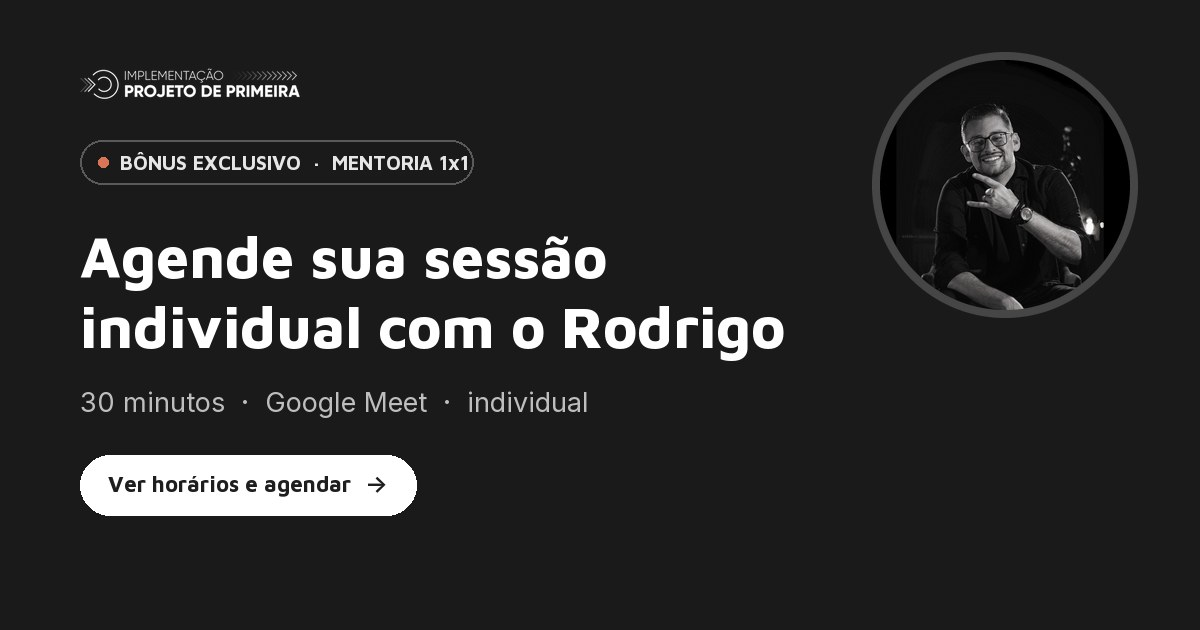
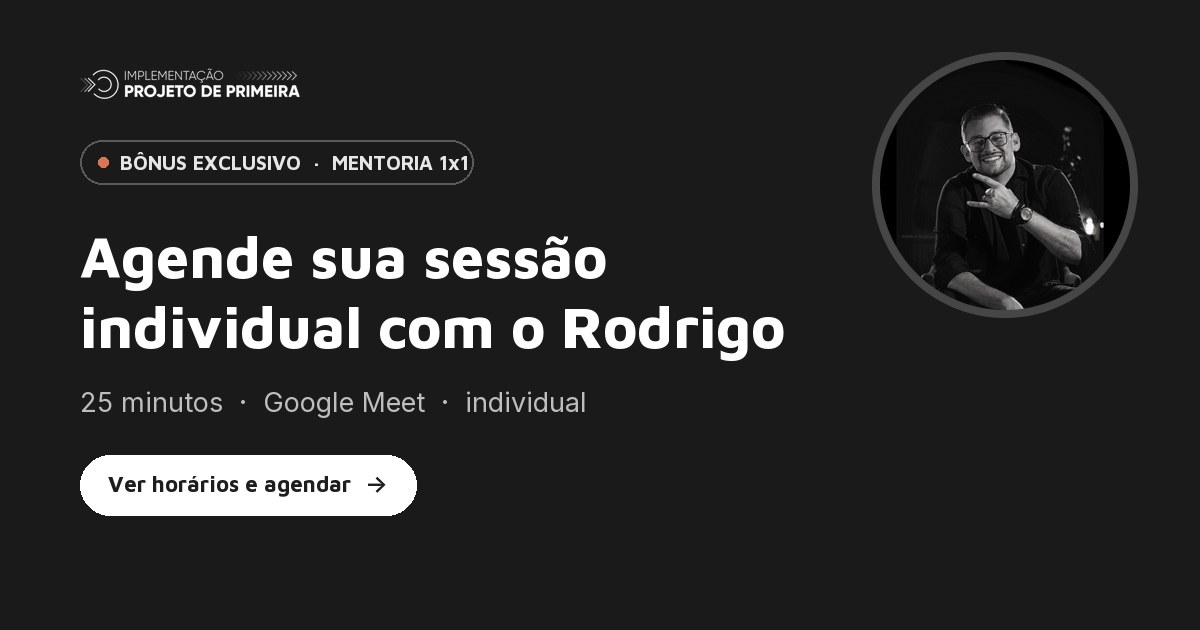
fix: sessão de 25 minutos (site, meta, OG) + README atualizado (domínio, fontes)

Changed region(s): [[0.2158, 0.6032, 0.4933, 0.6635], [0.0617, 0.6333, 0.185, 0.6635]]

diff --git a/index.html b/index.html
@@ -5,18 +5,18 @@
 <meta name="viewport" content="width=device-width, initial-scale=1.0">
 <meta name="robots" content="noindex,nofollow">
 <title>Agendar mentoria 1x1 · Rodrigo Rosar</title>
-<meta name="description" content="Agende sua sessão individual de 30 minutos com Rodrigo Rosar, bônus da Implementação Projeto de Primeira. Escolha o horário direto na agenda e receba o link do Google Meet por e-mail.">
+<meta name="description" content="Agende sua sessão individual de 25 minutos com Rodrigo Rosar, bônus da Implementação Projeto de Primeira. Escolha o horário direto na agenda e receba o link do Google Meet por e-mail.">
 <link rel="canonical" href="https://agendamento.rodrigorosar.com.br/">
 <meta property="og:type" content="website">
 <meta property="og:locale" content="pt_BR">
 <meta property="og:site_name" content="Implementação Projeto de Primeira">
 <meta property="og:title" content="Agende sua sessão individual com o Rodrigo">
-<meta property="og:description" content="30 minutos, individual, pelo Google Meet. Escolha o horário na agenda e receba a confirmação por e-mail.">
+<meta property="og:description" content="25 minutos, individual, pelo Google Meet. Escolha o horário na agenda e receba a confirmação por e-mail.">
 <meta property="og:url" content="https://agendamento.rodrigorosar.com.br/">
 <meta property="og:image" content="https://agendamento.rodrigorosar.com.br/assets/og.jpg">
 <meta property="og:image:width" content="1200">
 <meta property="og:image:height" content="630">
-<meta property="og:image:alt" content="Agende sua sessão individual com o Rodrigo Rosar: 30 minutos, Google Meet">
+<meta property="og:image:alt" content="Agende sua sessão individual com o Rodrigo Rosar: 25 minutos, Google Meet">
 <meta name="twitter:card" content="summary_large_image">
 <meta name="theme-color" content="#1A1A1A">
 <link rel="preconnect" href="https://fonts.googleapis.com">
@@ -156,7 +156,7 @@
     <p class="lead h-in">Uma conversa objetiva, focada no seu momento atual, para você sair com direção e decisão tomada.</p>
 
     <ul class="chips h-in" aria-label="Formato da sessão">
-      <li class="chip"><svg viewBox="0 0 24 24" fill="none" stroke="currentColor" stroke-width="2" stroke-linecap="round" stroke-linejoin="round" aria-hidden="true" focusable="false"><circle cx="12" cy="12" r="10"/><polyline points="12 6 12 12 16 14"/></svg>30 minutos</li>
+      <li class="chip"><svg viewBox="0 0 24 24" fill="none" stroke="currentColor" stroke-width="2" stroke-linecap="round" stroke-linejoin="round" aria-hidden="true" focusable="false"><circle cx="12" cy="12" r="10"/><polyline points="12 6 12 12 16 14"/></svg>25 minutos</li>
       <li class="chip"><svg viewBox="0 0 24 24" fill="none" stroke="currentColor" stroke-width="2" stroke-linecap="round" stroke-linejoin="round" aria-hidden="true" focusable="false"><path d="m22 8-6 4 6 4V8Z"/><rect width="14" height="12" x="2" y="6" rx="2" ry="2"/></svg>Google Meet</li>
     </ul>
 
@@ -186,7 +186,7 @@
         <li class="step">
           <span class="step-num" aria-hidden="true">3</span>
           <h3>No dia, entre pelo link</h3>
-          <p>Chegue pontual e com suas dúvidas organizadas para aproveitar os 30 minutos inteiros.</p>
+          <p>Chegue pontual e com suas dúvidas organizadas para aproveitar os 25 minutos inteiros.</p>
         </li>
       </ol>
 
@@ -226,7 +226,7 @@
         <li><svg viewBox="0 0 24 24" fill="none" stroke="currentColor" stroke-width="2.2" stroke-linecap="round" stroke-linejoin="round" aria-hidden="true" focusable="false"><path d="M20 6 9 17l-5-5"/></svg><span>Há vagas para todos, então novos horários não serão abertos. Se você esquecer de agendar e não houver mais horários, o bônus é perdido.</span></li>
         <li><svg viewBox="0 0 24 24" fill="none" stroke="currentColor" stroke-width="2.2" stroke-linecap="round" stroke-linejoin="round" aria-hidden="true" focusable="false"><path d="M20 6 9 17l-5-5"/></svg><span>Remarcação só é possível enquanto ainda houver outros horários disponíveis.</span></li>
         <li><svg viewBox="0 0 24 24" fill="none" stroke="currentColor" stroke-width="2.2" stroke-linecap="round" stroke-linejoin="round" aria-hidden="true" focusable="false"><path d="M20 6 9 17l-5-5"/></svg><span>Não comparecer conta como bônus utilizado. Sem reagendamento.</span></li>
-        <li><svg viewBox="0 0 24 24" fill="none" stroke="currentColor" stroke-width="2.2" stroke-linecap="round" stroke-linejoin="round" aria-hidden="true" focusable="false"><path d="M20 6 9 17l-5-5"/></svg><span>Organize-se para aproveitar integralmente os 30 minutos.</span></li>
+        <li><svg viewBox="0 0 24 24" fill="none" stroke="currentColor" stroke-width="2.2" stroke-linecap="round" stroke-linejoin="round" aria-hidden="true" focusable="false"><path d="M20 6 9 17l-5-5"/></svg><span>Organize-se para aproveitar integralmente os 25 minutos.</span></li>
         <li><svg viewBox="0 0 24 24" fill="none" stroke="currentColor" stroke-width="2.2" stroke-linecap="round" stroke-linejoin="round" aria-hidden="true" focusable="false"><path d="M20 6 9 17l-5-5"/></svg><span>Programe um alarme para não perder o horário.</span></li>
       </ul>
 

diff --git a/README.md b/README.md
@@ -1,6 +1,6 @@
 # agendamento-pdp
 
-Página de agendamento da sessão de mentoria individual (30 min, Google Meet) com Rodrigo Rosar — bônus da Implementação Projeto de Primeira.
+Página de agendamento da sessão de mentoria individual (25 min, Google Meet) com Rodrigo Rosar — bônus da Implementação Projeto de Primeira.
 
 ## URLs
 
@@ -51,18 +51,15 @@ Substituir `assets/rodrigo-160.jpg` e `assets/rodrigo-160.webp` (160×160, quadr
 
 `assets/og.jpg` (1200×630). Referenciada no `<meta property="og:image">`.
 
-## Ativar o domínio `agendamento.rodrigorosar.com.br`
+## Domínio (feito em 25/08/2026)
 
-O DNS de `rodrigorosar.com.br` está no Cloudflare (mesmo padrão de `implementacao.` e `links.`).
-
-1. Cloudflare → DNS → **Add record**: tipo `CNAME`, nome `agendamento`, destino `metrik-group.github.io`, proxy **desligado** (nuvem cinza / "DNS only"), TTL Auto.
-2. No repo, criar o arquivo `CNAME` na raiz com o conteúdo `agendamento.rodrigorosar.com.br` (sem quebra de linha extra) e fazer push.
-3. GitHub → Settings → Pages → confirmar o domínio e marcar **Enforce HTTPS** (o certificado leva ~15 min).
-4. Em `index.html`, trocar `https://agendamento.rodrigorosar.com.br/` por `https://agendamento.rodrigorosar.com.br/` nas tags `canonical`, `og:url` e `og:image`.
+- Cloudflare: CNAME `agendamento` → `metrik-group.github.io`, proxy desligado (DNS only).
+- GitHub Pages: como o deploy é por Actions, o arquivo `CNAME` do repo **não** é lido. O domínio foi definido via API: `gh api --method PUT repos/METRIK-GROUP/agendamento-pdp/pages -f cname=agendamento.rodrigorosar.com.br` (conta com admin no repo) e depois `-F https_enforced=true` quando o certificado ficou `approved`.
+- `canonical`, `og:url` e `og:image` no `index.html` apontam para o domínio final.
 
 ## Stack
 
-- HTML + CSS puros; fontes DM Sans + DM Serif Display (Google Fonts).
+- HTML + CSS puros; fontes Maven Pro (títulos, labels, botões), Inter (corpo) e DM Serif Display (frase editorial), via Google Fonts. Visual no padrão do site da Implementação (hero escuro, paleta METRIK monocromática, sem sombras).
 - `noindex,nofollow` + `robots.txt` bloqueando tudo: página privada para alunos.
 - GitHub Pages via `.github/workflows/deploy.yml` (push em `main` publica).
 
